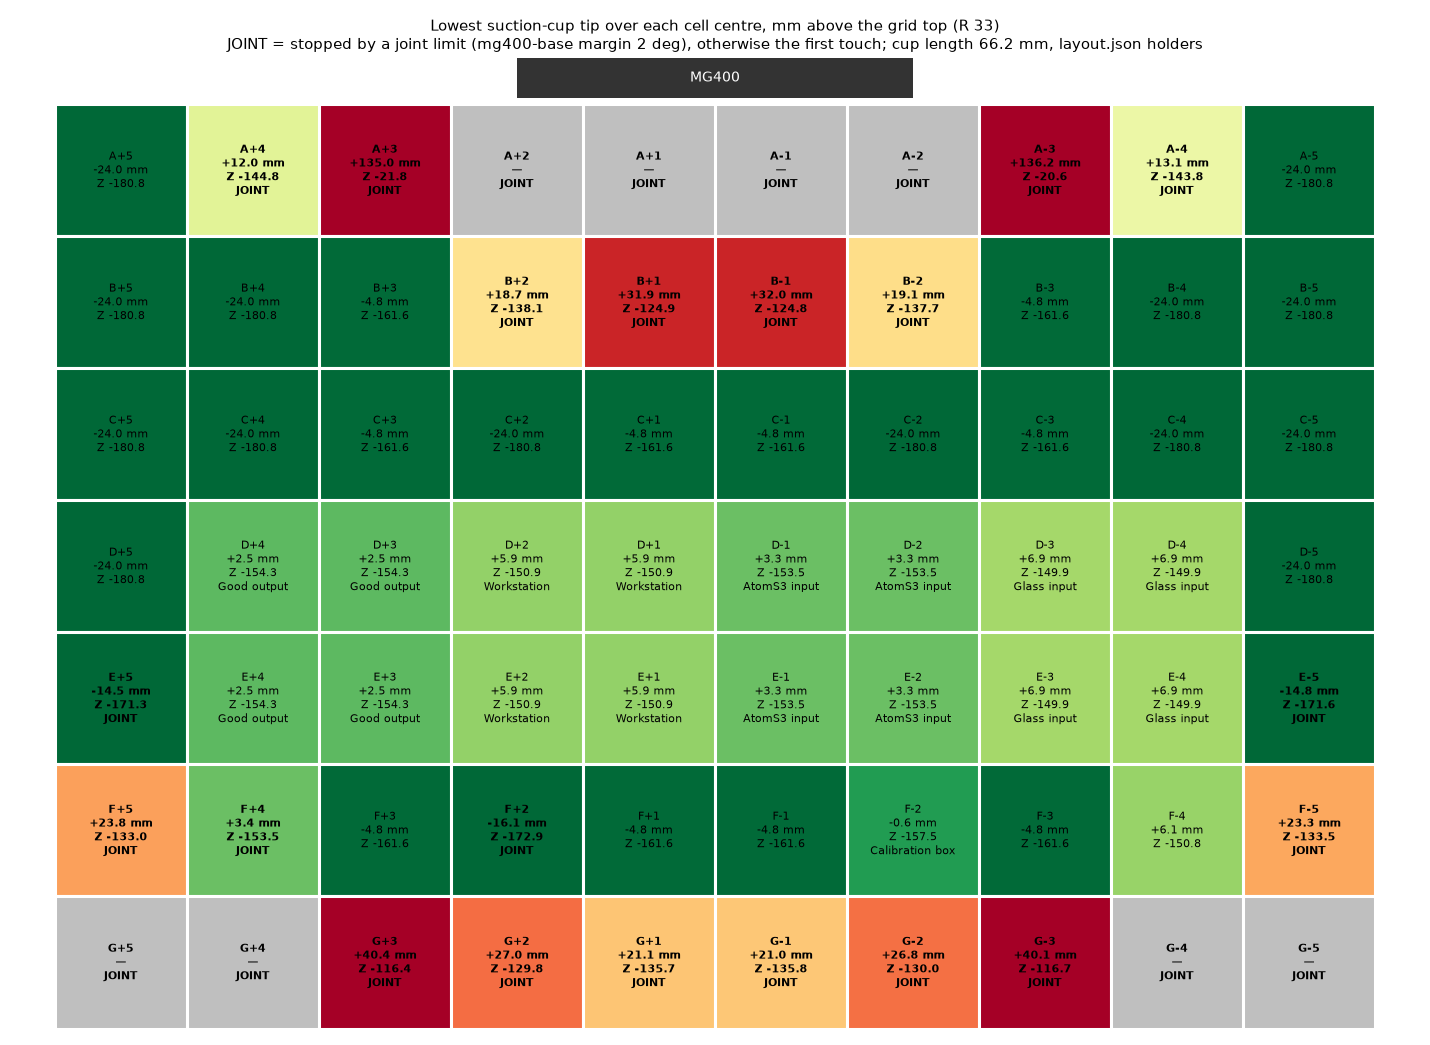
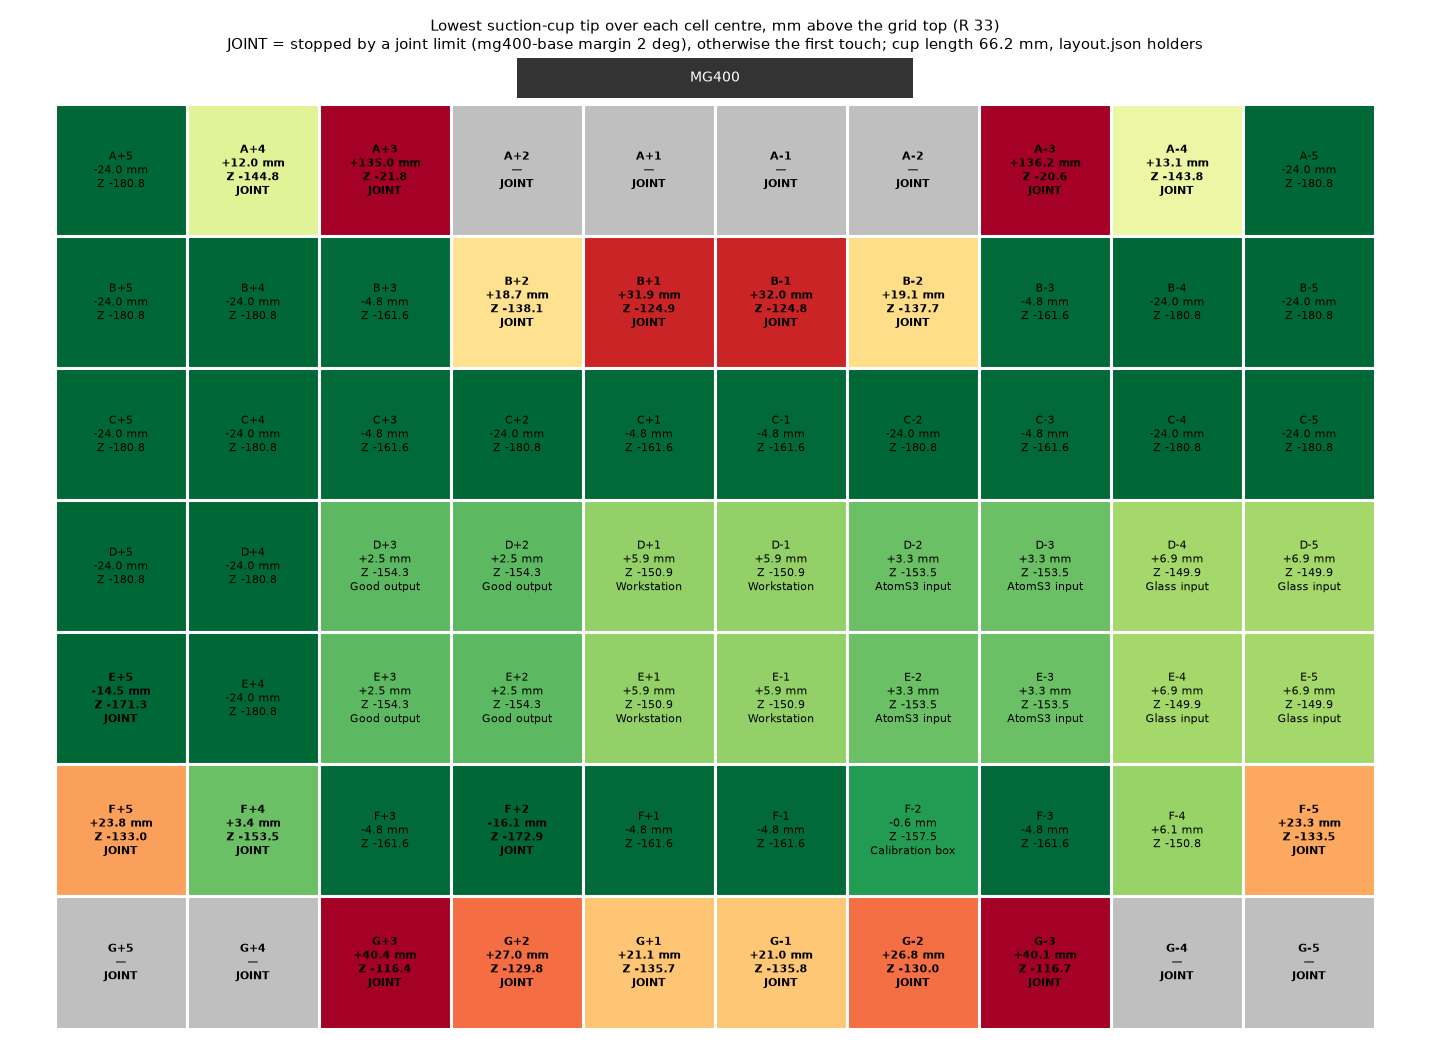
sim: dry run checks layout.json as the robot runs it (transfer test, taught Z); --full for the planned cycle
The slot picker moved to a one-tray transfer test (all roles = Glass input,
workstation_step false, taught pick_z -150.5 dy 2); dry_run crashed on it
(KeyError pick_z) because it overwrote teach per role and always placed the
battery + Atom stack. Now taught values are kept and compared with the twin,
the stack is placed only with the workstation step, tolerance uses --full.
Results 25.10: no collisions in either mode; taught pick_z presses 2.6 mm
into a glass per the twin (probably taught on an empty pocket floor).

diff --git a/3d-print/sim/dry_run.py b/3d-print/sim/dry_run.py
@@ -1,14 +1,16 @@
 """dry_run.py — run the real slot-picker glass cycle (slot-picker/cycle.py) in the twin before the robot.
 
-Uses the action list cycle.plan_glass() builds for the robot, the layout from slot-picker/layout.json
-(roles below if none are chosen yet) and taught Z values derived from the twin geometry (pick: cup on
-the glass top pressed 1 mm, place on the workstation: glass on the Atom screen, output: glass 1 mm above
-the floor). Every move is checked as a straight line every 2 mm (assumption: mg400-base streams a
+Uses the action list cycle.plan_glass() builds for the robot and slot-picker/layout.json as it is
+(mode, roles, taught dx/dy/Z), i.e. what the robot would run now. A Z not taught yet is derived from
+the twin geometry (pick: cup on the glass top pressed 1 mm, place on the workstation: glass on the Atom
+screen, output: glass 1 mm above the floor); taught and derived values are both reported.
+--full checks the planned full cycle instead: roles below, workstation step on, all Z derived. Every move is checked as a straight line every 2 mm (assumption: mg400-base streams a
 straight Cartesian path): joint limits, and collisions of the arm, the XIAO mount, the cup and the
 carried glass with the rig, holders, the webcam post, glasses in pockets and the battery+Atom stack.
 The cup and the carried glass may touch only their own target pocket during approach/down/lift.
 
-Writes <lab>/docs/sim_dry_run.txt. Run: .venv/Scripts/python dry_run.py [--lab ../lab2] [--glasses 1,2,3,4]
+Writes <lab>/docs/sim_dry_run.txt (--full: sim_dry_run_full.txt).
+Run: .venv/Scripts/python dry_run.py [--lab ../lab2] [--glasses 1,2,3,4] [--full]
 """
 import argparse
 import copy
@@ -54,8 +56,15 @@ def box(extents, centre):
 
 
 class Run:
-    def __init__(self, glasses):
+    def __init__(self, glasses, full=False):
         lay = copy.deepcopy(twin.json.loads((twin.LAB / "slot-picker" / "layout.json").read_text(encoding="utf-8")))
+        self.full = full
+        if full:
+            lay["cycle"]["roles"] = dict(ROLES)
+            lay["cycle"]["workstation_step"] = True
+            lay["cycle"]["workstation_cell"] = None
+            for h in lay["holders"]:
+                h.pop("teach", None)
         for role, name in ROLES.items():
             lay["cycle"]["roles"][role] = lay["cycle"]["roles"].get(role) or name
         ws_h = cycle.holder(lay, "workstation")
@@ -88,13 +97,30 @@ class Run:
                       "output": self._surface(out["name"], out["cells"][0])}
         self.atom_top = self.floor["workstation"] + BATTERY_H + ATOM_H
         g = GLASS[2]
-        inp["teach"] = {"dx": 0, "dy": 0, "pick_z": round(T.robot_z_for_tip(self.floor["input"] + g - 1), 1)}
-        ws["teach"] = {"dx": 0, "dy": 0, "place_z": round(T.robot_z_for_tip(self.atom_top + g), 1),
-                       "pick_z": round(T.robot_z_for_tip(self.atom_top + g - 1), 1)}
-        out["teach"] = {"dx": 0, "dy": 0, "place_z": round(T.robot_z_for_tip(self.floor["output"] + g + 1), 1)}
-        self.log.append(f"derived teach: input pick {inp['teach']['pick_z']}, workstation place {ws['teach']['place_z']} "
-                        f"/ pick {ws['teach']['pick_z']}, output place {out['teach']['place_z']} (robot Z); "
-                        f"pocket floors z {self.floor['input']:.2f} / {self.floor['workstation']:.2f} / "
+        derived = {"input": {"pick_z": T.robot_z_for_tip(self.floor["input"] + g - 1)},
+                   "workstation": {"place_z": T.robot_z_for_tip(self.atom_top + g),
+                                   "pick_z": T.robot_z_for_tip(self.atom_top + g - 1)},
+                   "output": {"place_z": T.robot_z_for_tip(self.floor["output"] + g + 1)}}
+        used = cycle.roles(lay)
+        self.log.append("mode: " + ("planned full cycle" if self.full else "layout.json as is, "
+                        + ("full cycle" if lay["cycle"].get("workstation_step") else "transfer test (no workstation)"))
+                        + "; " + ", ".join(f"{r} = {cycle.holder(lay, r)['name']}" for r in used))
+        # roles may share one holder (transfer test): fill in only what a used role misses, never overwrite
+        for role, h in (("input", inp), ("workstation", ws), ("output", out)):
+            if role not in used:
+                continue
+            t = h.setdefault("teach", {})
+            t.setdefault("dx", 0)
+            t.setdefault("dy", 0)
+            for k, v in derived[role].items():
+                v = round(v, 1)
+                if t.get(k) is None:
+                    t[k] = v
+                    self.log.append(f"{role} {k}: not taught, derived {v}")
+                else:
+                    self.log.append(f"{role} {k}: taught {t[k]}, twin derives {v} ({t[k] - v:+.1f} mm)"
+                                    + (f"; taught dx {t['dx']} dy {t['dy']}" if t["dx"] or t["dy"] else ""))
+        self.log.append(f"pocket floors z {self.floor['input']:.2f} / {self.floor['workstation']:.2f} / "
                         f"{self.floor['output']:.2f}, Atom top z {self.atom_top:.2f}")
 
     def _world(self, cell):
@@ -106,6 +132,9 @@ class Run:
         for g in self.glasses:
             x, y = self._world(inp["cells"][g - 1])
             self.T.scene[f"glass {g}"] = box(GLASS, (x, y, self.floor["input"] + GLASS[2] / 2))
+        if not lay["cycle"].get("workstation_step"):     # transfer test: no battery + Atom on the table
+            self._refresh()
+            return
         x, y = self._world(lay["cycle"]["workstation_cell"])
         f = self.floor["workstation"]
         self.T.scene["battery"] = box((24.04, 24.01, BATTERY_H), (x, y, f + BATTERY_H / 2))
@@ -182,7 +211,7 @@ class Run:
         report = list(self.log)
         for g in self.glasses:
             target_of = {"input": [f"glass {g}", "holder:" + inp["name"]],
-                         "workstation": ["AtomS3", "holder:" + ROLES["workstation"]],
+                         "workstation": ["AtomS3", "holder:" + cycle.holder(lay, "workstation")["name"]],
                          "output": ["holder:" + out["name"]] + [f"placed glass {k}" for k in self.glasses]}
             for act in cycle.plan_glass(lay, g, self.by_name):
                 if act[0] == "pump":
@@ -279,21 +308,24 @@ class Run:
         return hi, touching(lo)[0]
 
     def _near_ws(self, p):
+        if not self.lay["cycle"].get("workstation_step"):
+            return False
         wx, wy = cycle.slot_xy(self.lay, "workstation", 1, self.by_name)
         return math.hypot(p[0] - wx, p[1] - wy) < 1.0
 
 def main():
     ap = argparse.ArgumentParser()
     ap.add_argument("--glasses", default="1,2,3,4")
+    ap.add_argument("--full", action="store_true", help="the planned full cycle instead of layout.json as is")
     twin.add_lab_arg(ap)
     a = ap.parse_args()
     twin.use_lab(a.lab)
     load_cycle()
-    run = Run([int(v) for v in a.glasses.split(",")])
+    run = Run([int(v) for v in a.glasses.split(",")], full=a.full)
     rep = run.run()
     text = "\n".join(rep)
     print(text)
-    (twin.LAB / "docs" / "sim_dry_run.txt").write_text(text + "\n", encoding="utf-8")
+    (twin.LAB / "docs" / ("sim_dry_run_full.txt" if a.full else "sim_dry_run.txt")).write_text(text + "\n", encoding="utf-8")
 
 
 if __name__ == "__main__":

diff --git a/3d-print/sim/tolerance.py b/3d-print/sim/tolerance.py
@@ -1,5 +1,5 @@
-"""tolerance.py — how large a calibration error the glass cycle survives: every holder is shifted by the
-same error (robot frame), 8 directions, 1..7 mm, one glass; first failure per direction.
+"""tolerance.py — how large a calibration error the planned full glass cycle survives: every holder is
+shifted by the same error (robot frame), 8 directions, 1..7 mm, one glass; first failure per direction.
 Writes <lab>/docs/sim_tolerance.txt. Run: .venv/Scripts/python tolerance.py [--lab ../lab2]"""
 import argparse
 import math
@@ -21,7 +21,7 @@ def main():
         a = math.radians(45 * k)
         first = None
         for e in range(1, 8):
-            r = dry_run.Run([1])
+            r = dry_run.Run([1], full=True)
             for role in ("input", "workstation", "output"):
                 dry_run.cycle.holder(r.lay, role)["teach"].update(dx=round(e * math.cos(a), 2), dy=round(e * math.sin(a), 2))
             f = fails(r.run())
